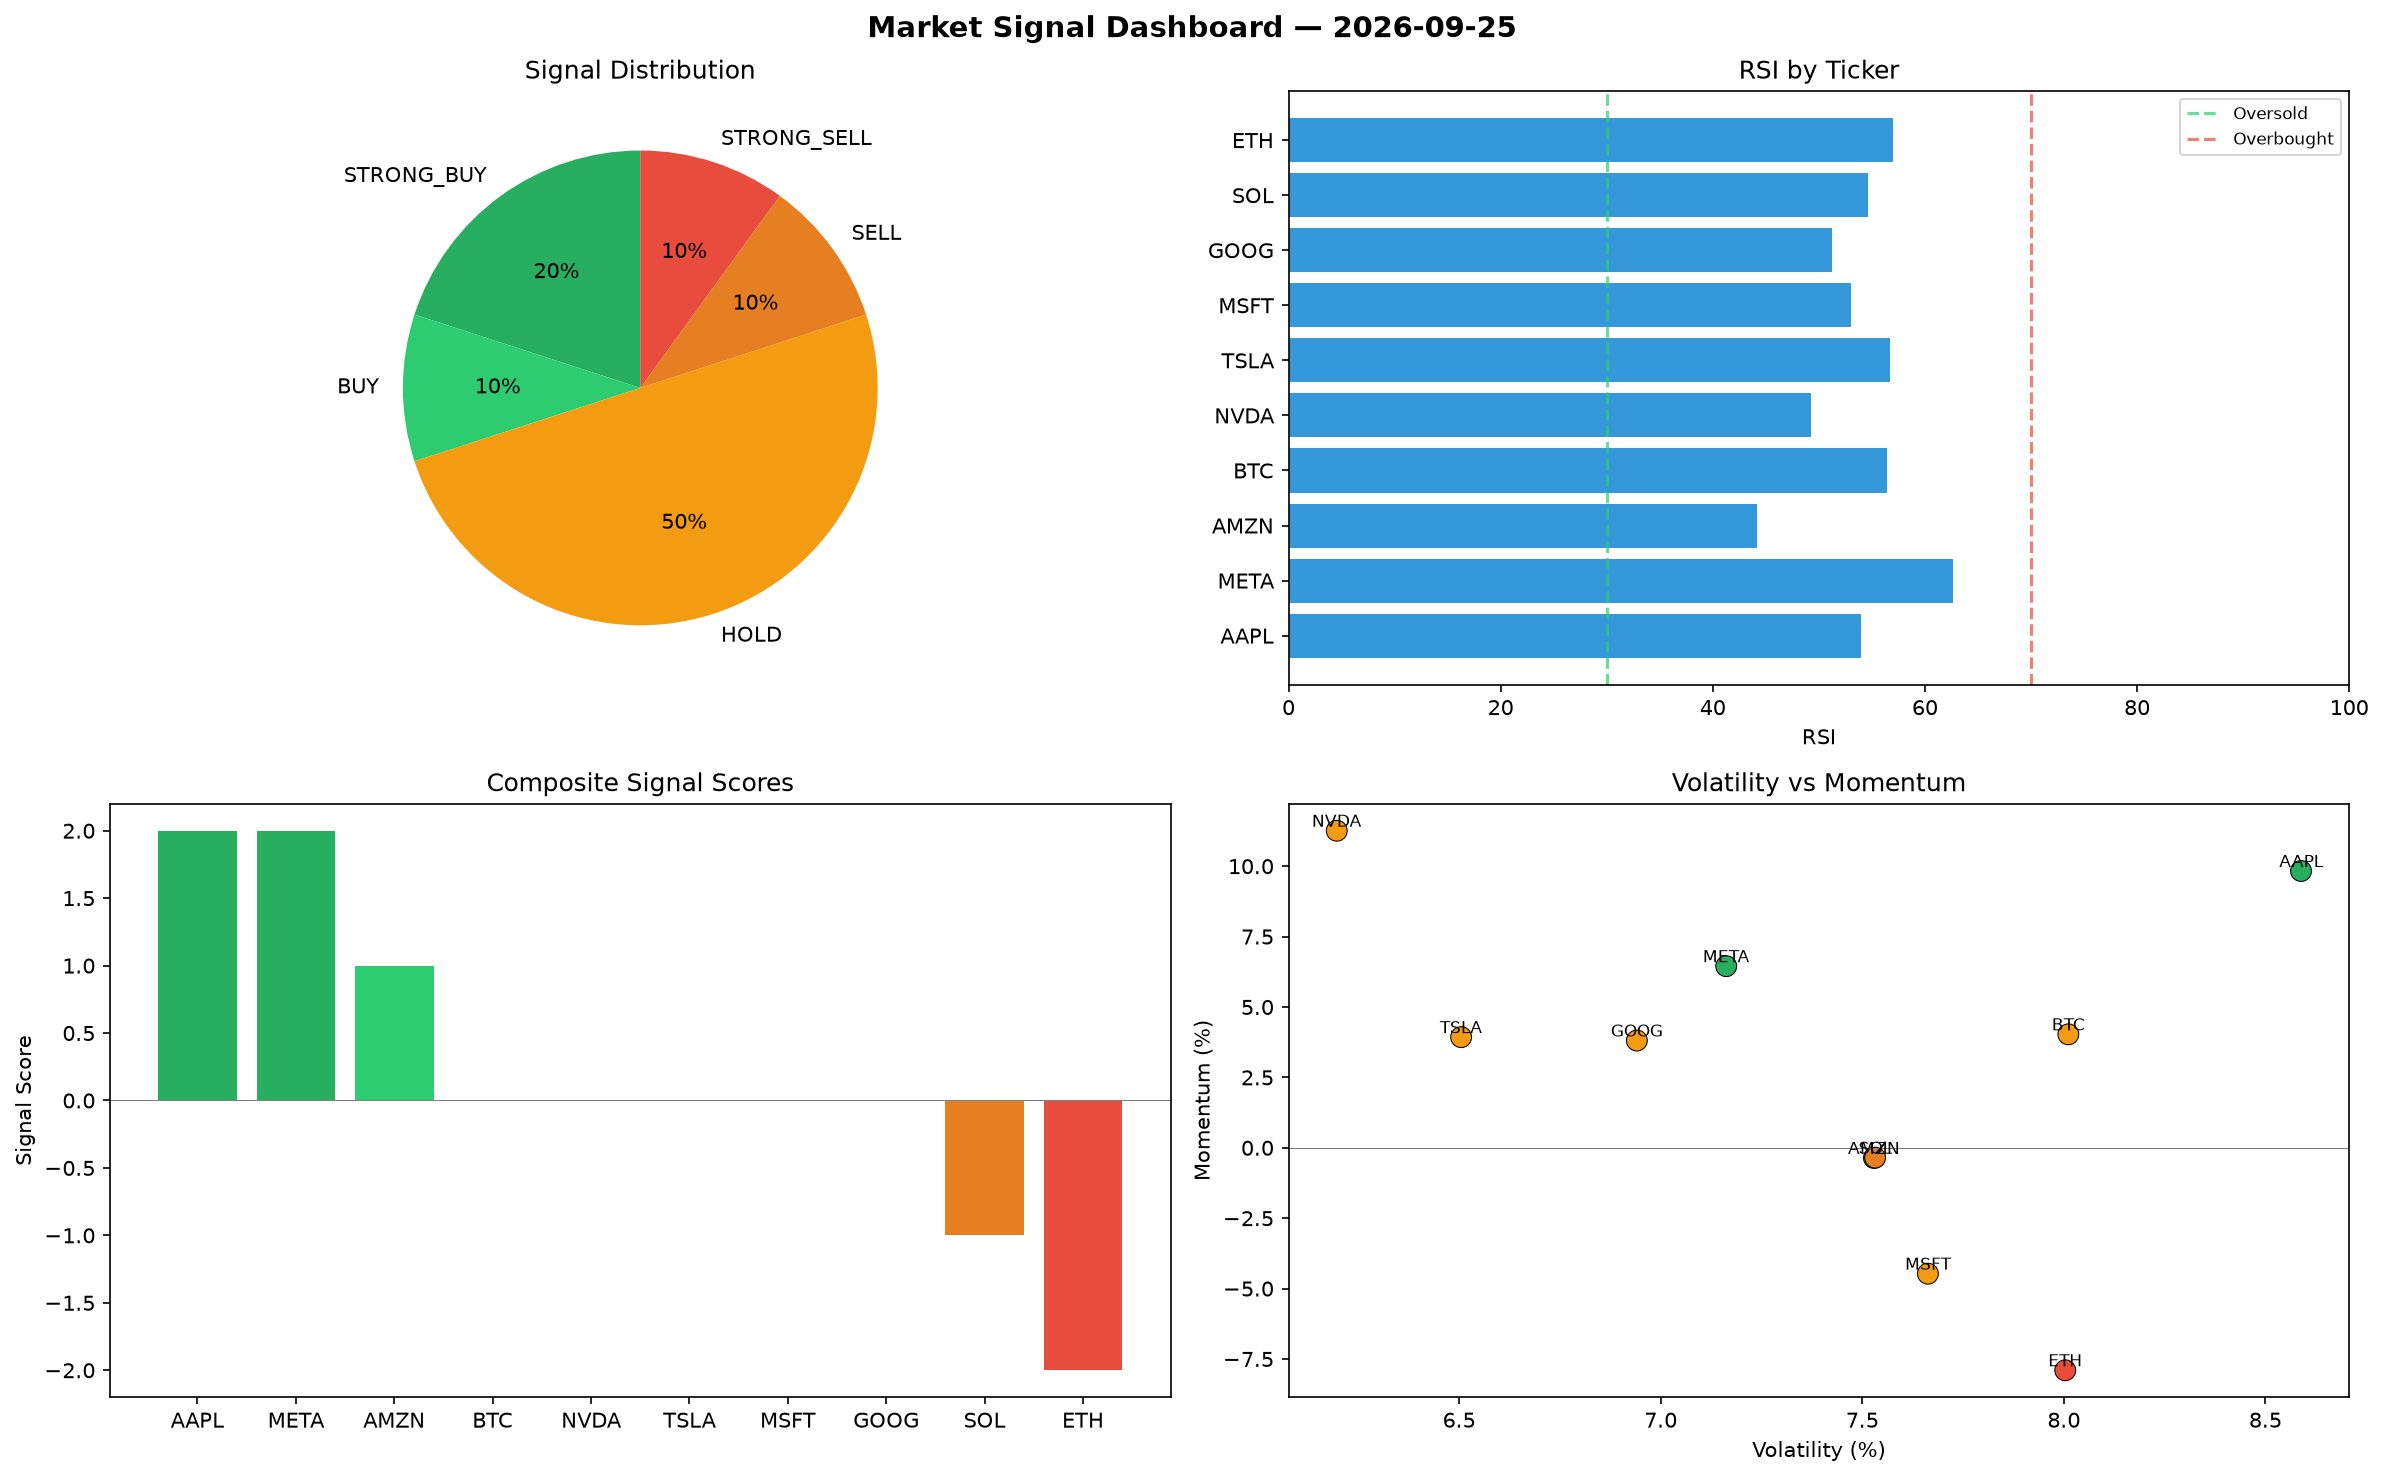
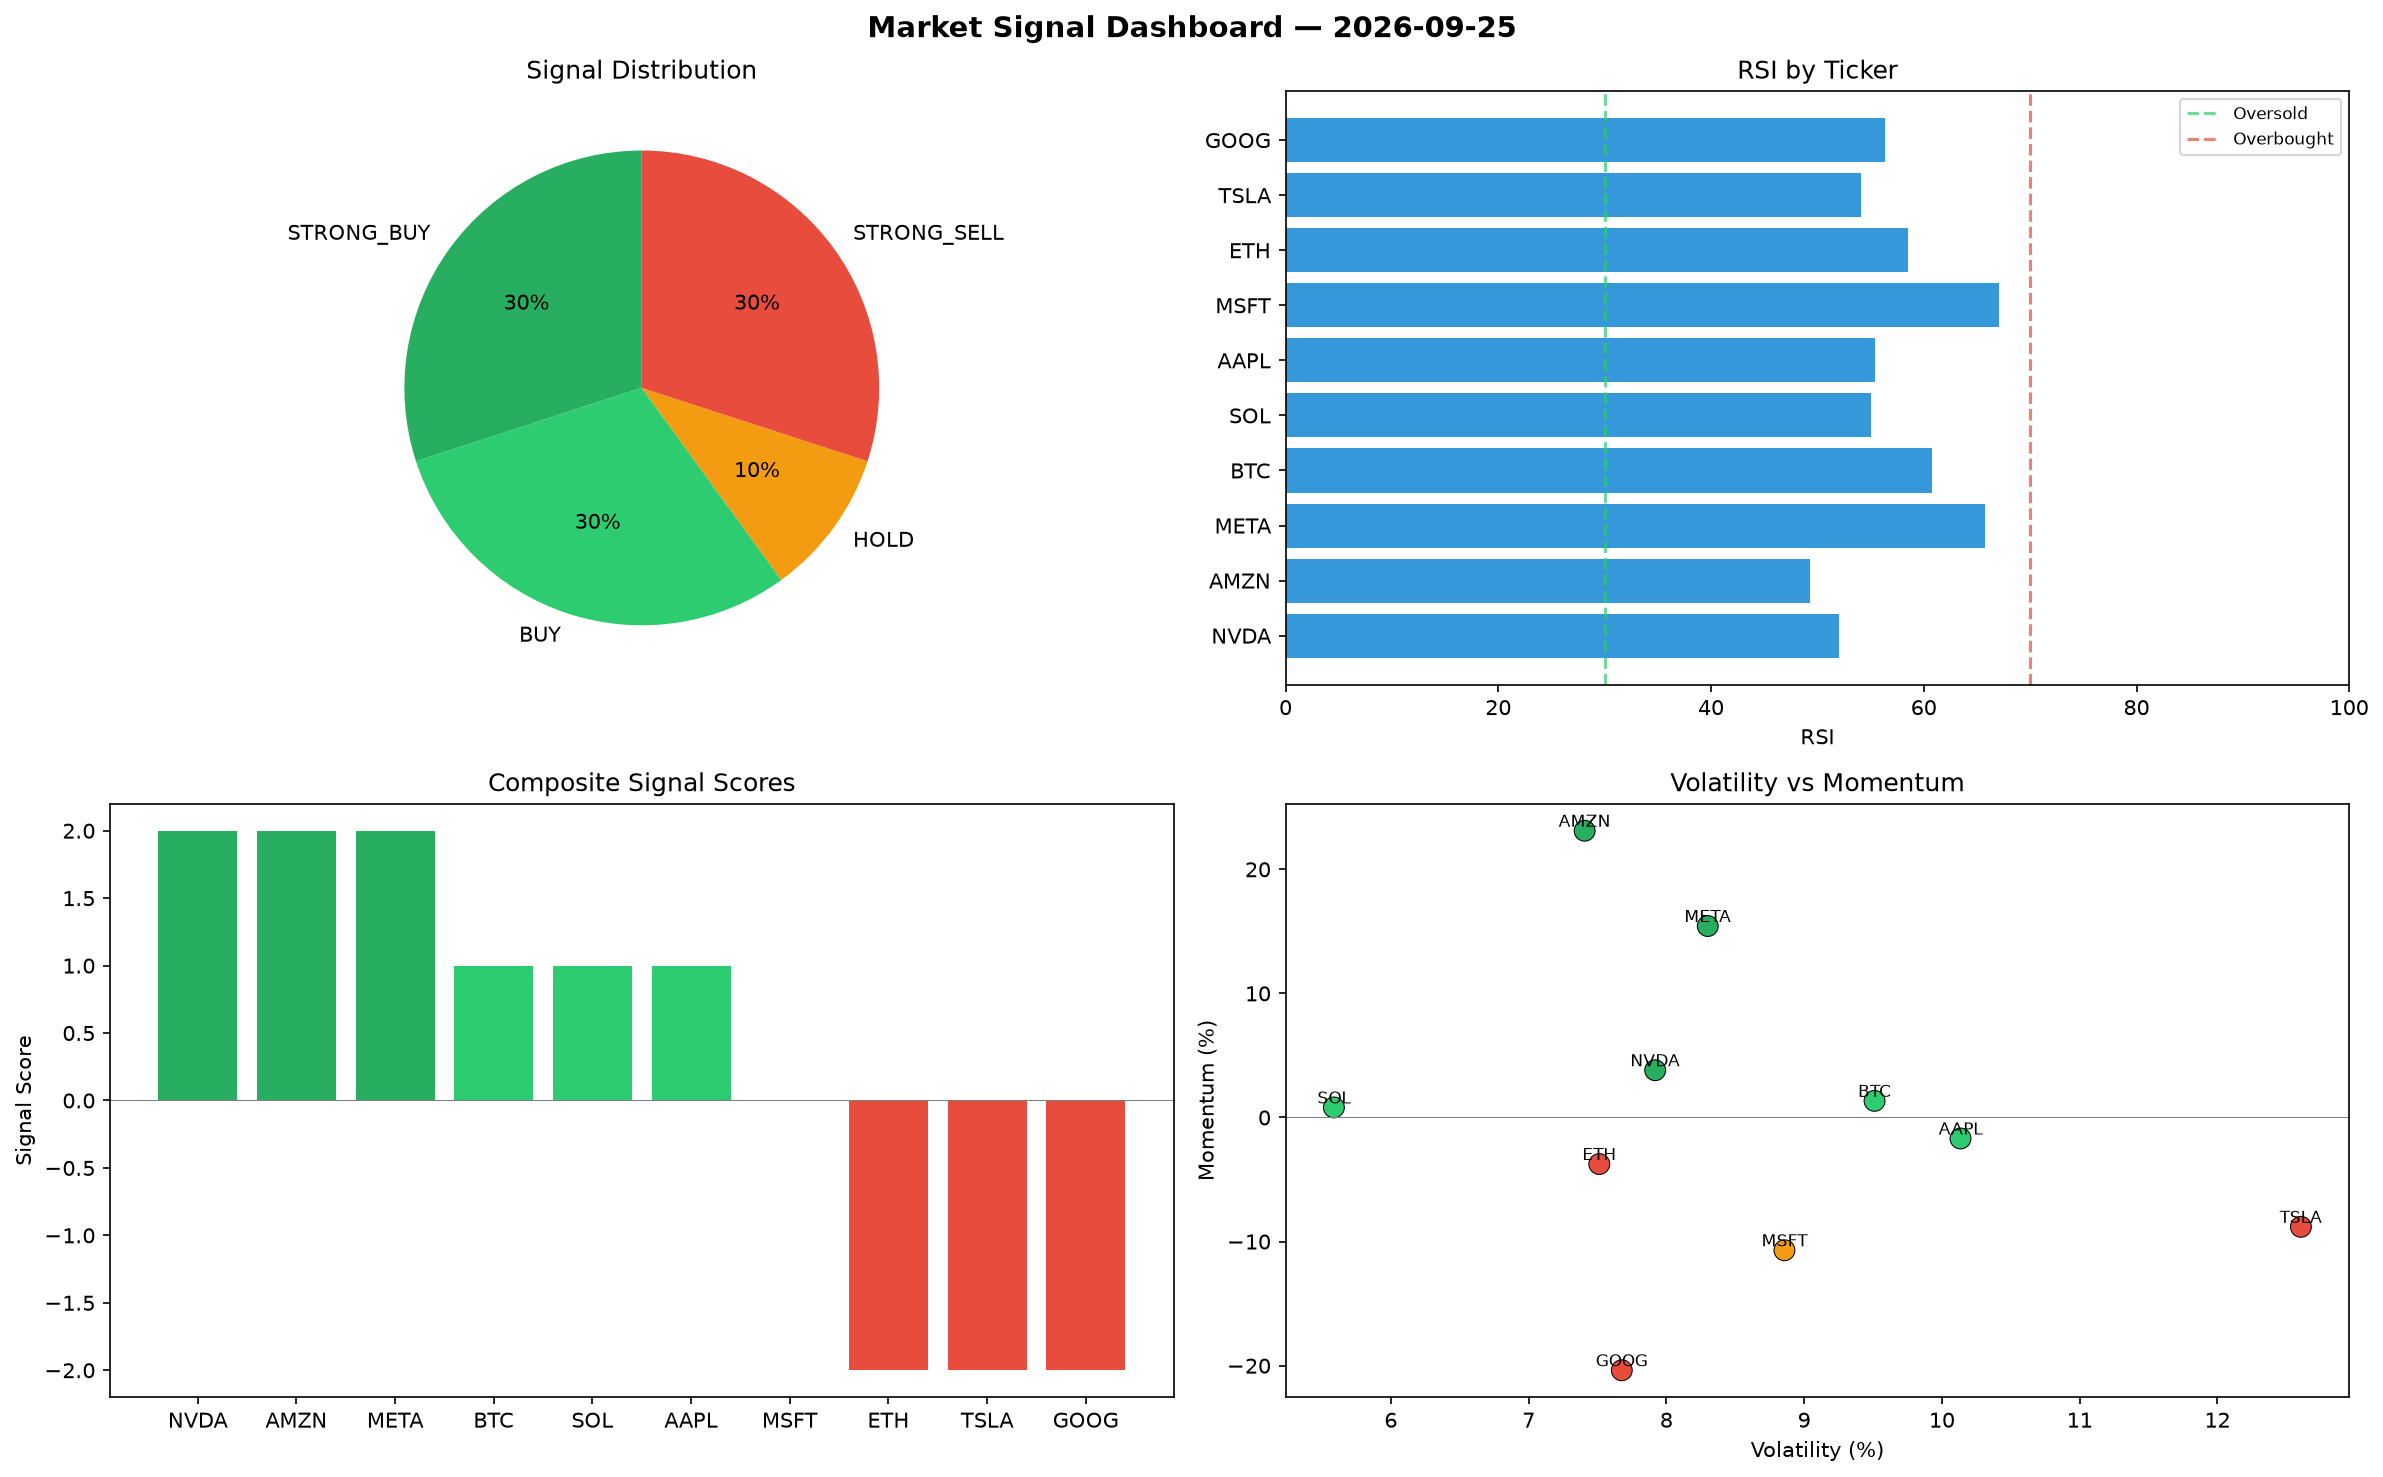
automated-bots: market signals 2026-09-25T18:48

diff --git a/logs/2026-09-25.md b/logs/2026-09-25.md
@@ -1,6 +1,6 @@
 # Market Signal Report — 2026-09-25
 
-**Run ID:** `08c1b3ca3e` | **Buy:** 3 | **Sell:** 2 | **Hold:** 5
+**Run ID:** `10ea4512a4` | **Buy:** 6 | **Sell:** 3 | **Hold:** 1
 
 ![Dashboard](2026-09-25_dashboard.png)
 
@@ -8,28 +8,28 @@
 
 | Ticker | Price | Signal | Score | RSI | Momentum | Confidence |
 |--------|-------|--------|-------|-----|----------|------------|
-| AAPL | $1640.94 | **STRONG_BUY** | 2 | 53.98 | 0.0983 | 0.5 |
-| META | $2493.32 | **STRONG_BUY** | 2 | 62.67 | 0.0645 | 0.5 |
-| AMZN | $3558.11 | **BUY** | 1 | 44.14 | -0.0036 | 0.25 |
-| BTC | $3791.39 | **HOLD** | 0 | 56.42 | 0.0403 | 0.0 |
-| NVDA | $4880.91 | **HOLD** | 0 | 49.23 | 0.1126 | 0.0 |
-| TSLA | $4431.41 | **HOLD** | 0 | 56.68 | 0.0393 | 0.0 |
-| MSFT | $2195.41 | **HOLD** | 0 | 53.07 | -0.0447 | 0.0 |
-| GOOG | $2539.06 | **HOLD** | 0 | 51.27 | 0.0381 | 0.0 |
-| SOL | $3515.65 | **SELL** | -1 | 54.63 | -0.0035 | 0.25 |
-| ETH | $2142.11 | **STRONG_SELL** | -2 | 57.02 | -0.079 | 0.5 |
+| NVDA | $920.2 | **STRONG_BUY** | 2 | 52.05 | 0.0381 | 0.5 |
+| AMZN | $160.83 | **STRONG_BUY** | 2 | 49.29 | 0.2311 | 0.5 |
+| META | $1306.78 | **STRONG_BUY** | 2 | 65.78 | 0.1543 | 0.5 |
+| BTC | $2217.36 | **BUY** | 1 | 60.79 | 0.0134 | 0.25 |
+| SOL | $64.65 | **BUY** | 1 | 55.02 | 0.0081 | 0.25 |
+| AAPL | $1070.9 | **BUY** | 1 | 55.41 | -0.0169 | 0.25 |
+| MSFT | $4847.88 | **HOLD** | 0 | 67.04 | -0.107 | 0.0 |
+| ETH | $3721.61 | **STRONG_SELL** | -2 | 58.55 | -0.0375 | 0.5 |
+| TSLA | $1715.4 | **STRONG_SELL** | -2 | 54.12 | -0.0881 | 0.5 |
+| GOOG | $3240.32 | **STRONG_SELL** | -2 | 56.39 | -0.2037 | 0.5 |
 
 ## Delta vs Yesterday
 
 | Ticker | Today | Yesterday | Price Change | Signal Changed |
 |--------|-------|-----------|-------------|----------------|
-| AAPL | STRONG_BUY | HOLD | 📉 -58.61% | ⚠ YES |
-| META | STRONG_BUY | SELL | 📈 469.25% | ⚠ YES |
-| AMZN | BUY | STRONG_SELL | 📈 198.89% | ⚠ YES |
-| BTC | HOLD | SELL | 📈 5.18% | ⚠ YES |
-| NVDA | HOLD | STRONG_SELL | 📈 71.38% | ⚠ YES |
-| TSLA | HOLD | SELL | 📈 2052.01% | ⚠ YES |
-| MSFT | HOLD | STRONG_SELL | 📉 -51.75% | ⚠ YES |
-| GOOG | HOLD | STRONG_SELL | 📈 28.27% | ⚠ YES |
-| SOL | SELL | BUY | 📈 54.98% | ⚠ YES |
-| ETH | STRONG_SELL | HOLD | 📉 -50.62% | ⚠ YES |
+| NVDA | STRONG_BUY | STRONG_SELL | 📉 -67.69% | ⚠ YES |
+| AMZN | STRONG_BUY | STRONG_SELL | 📉 -86.49% | ⚠ YES |
+| META | STRONG_BUY | SELL | 📈 198.35% | ⚠ YES |
+| BTC | BUY | SELL | 📉 -38.49% | ⚠ YES |
+| SOL | BUY | BUY | 📉 -97.15% | — |
+| AAPL | BUY | HOLD | 📉 -72.99% | ⚠ YES |
+| MSFT | HOLD | STRONG_SELL | 📈 6.54% | ⚠ YES |
+| ETH | STRONG_SELL | HOLD | 📉 -14.21% | ⚠ YES |
+| TSLA | STRONG_SELL | SELL | 📈 733.04% | ⚠ YES |
+| GOOG | STRONG_SELL | STRONG_SELL | 📈 63.7% | — |
